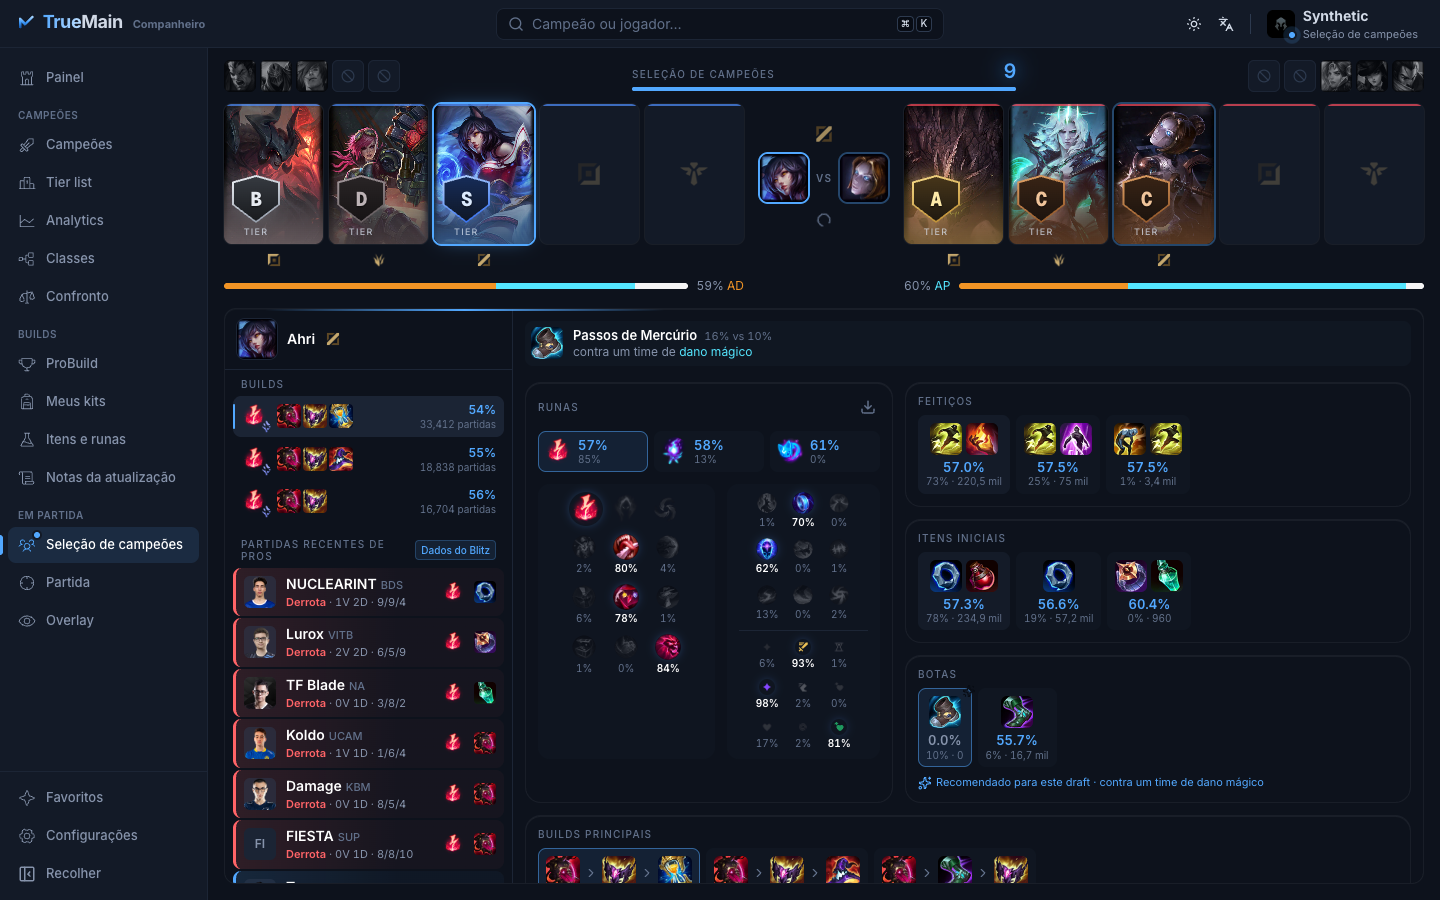
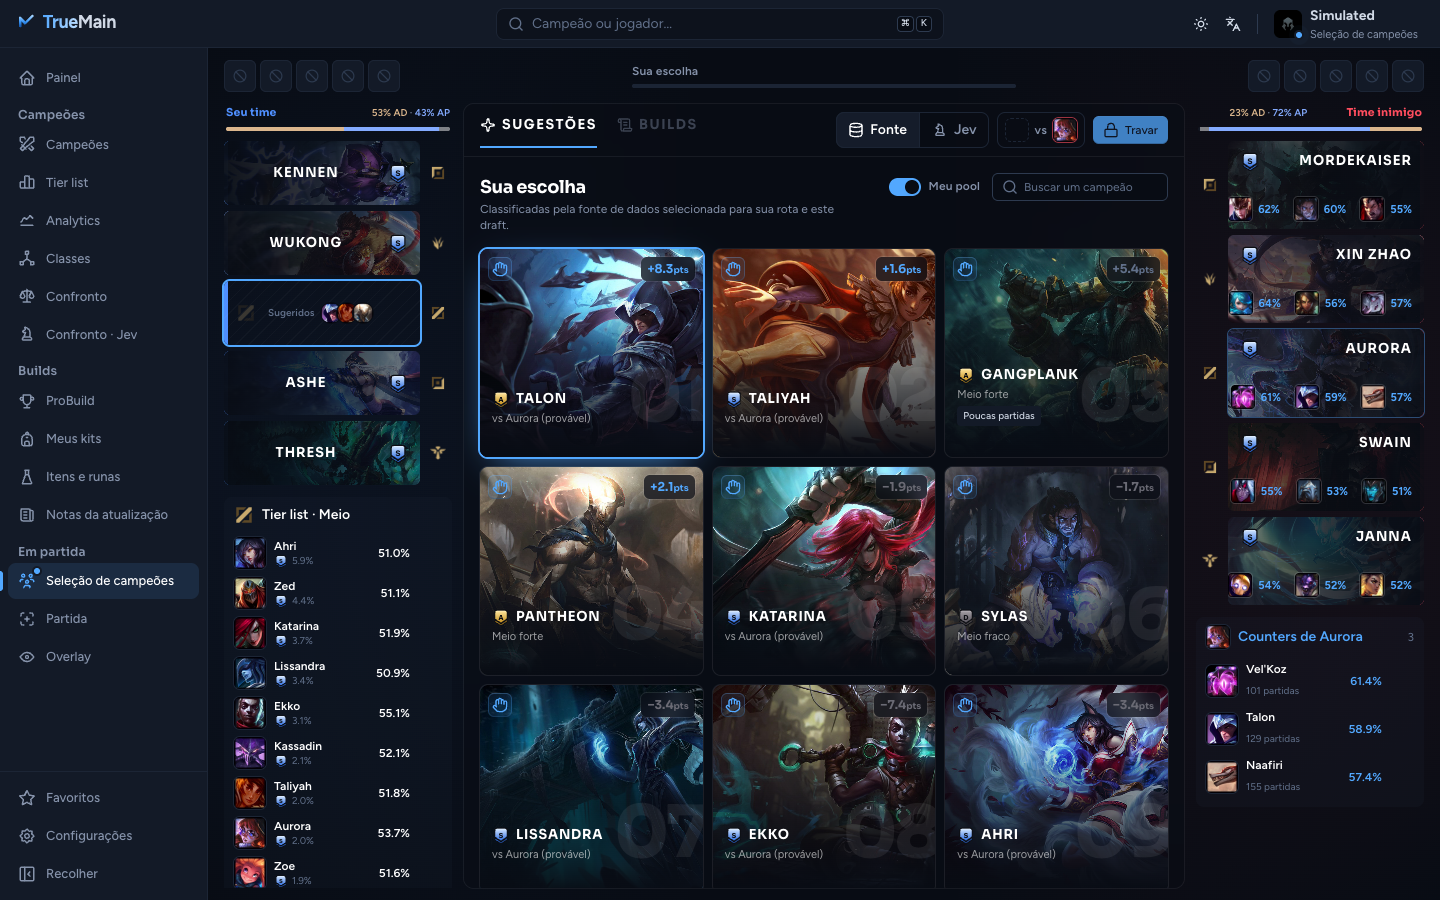
docs: champion select screenshots for the new layout

diff --git a/desktop/README.md b/desktop/README.md
@@ -16,7 +16,8 @@ Um app leve (Tauri v2 + Nuxt 4) que lê o cliente do League of Legends **somente
 | ![Fontes de dados](../docs/screenshots/sources.png)<br>**Configurações:** a fonte de dados — TrueMain, Blitz, op.gg, lolalytics ou Tencent | ![ProBuild](../docs/screenshots/probuild.png)<br>**ProBuild:** as partidas recentes de pros, vitória ou derrota em destaque |
 | ![Tier list](../docs/screenshots/tierlist.png)<br>**Tier list:** os campeões por tier, em medalhas | ![Classes](../docs/screenshots/classes.png)<br>**Classes:** campeões por classe e subclasse, com o papel de cada uma |
 | ![Itens](../docs/screenshots/items.png)<br>**Itens:** descrição e receita em árvore | ![Runas](../docs/screenshots/runes.png)<br>**Runas:** as árvores e a descrição colorida |
-| ![Seleção de campeões](../docs/screenshots/draft.png)<br>**Seleção de campeões:** picks e a build contra o draft | ![Partida](../docs/screenshots/ingame.png)<br>**Partida:** placar, próximo item e o que cada jogador vem fazendo |
+| ![Seleção de campeões](../docs/screenshots/draft.png)<br>**Seleção de campeões:** os times nas laterais com counters, a tier list da rota e as sugestões em pôsteres — da fonte ou reordenadas pelo Jev | ![Builds na seleção de campeões](../docs/screenshots/draft-builds.png)<br>**Builds na seleção:** runas, feitiços, iniciais, ordem de itens e evolução num card só, com importação e as builds de pros |
+| ![Partida](../docs/screenshots/ingame.png)<br>**Partida:** placar, próximo item e o que cada jogador vem fazendo | |
 | ![Notas da atualização](../docs/screenshots/patchnotes.png)<br>**Notas da atualização:** patch a patch, atualizadas sozinhas | ![Overlay de próximo item](../docs/screenshots/overlay-next-item.png)<br>**Overlay:** o próximo item sobre o jogo, com a receita e a ordem da build |
 
 As capturas foram feitas no navegador (`npm run dev`) com dados reais das fontes; as telas de seleção de campeões e partida usam cenários de simulação do projeto (contas e partidas fictícias). O app também tem **tema claro**, alternado pelo botão da barra superior:
